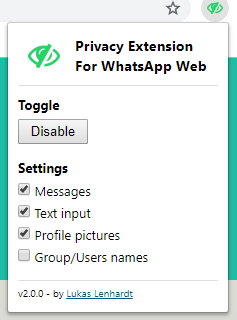
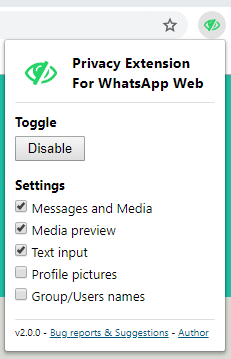
v2.0.0 finished
New design
Functionality to enable/disable what to blur
Added new blurrable elements
Bug fixing
Code cleanup

Changed region(s): [[0.0, 0.0, 0.9091, 1.0], [0.8485, 0.0, 1.0, 1.0]]

diff --git a/chrome/popup/popup.js b/chrome/popup/popup.js
@@ -1,6 +1,7 @@
 // Checkboxes
 let button = document.getElementById('switch');
 let messages = document.getElementById('messages');
+let mediaPreview = document.getElementById('mediaPreview');
 let textInput = document.getElementById('textInput');
 let profilePic = document.getElementById('profilePic');
 let name = document.getElementById('name');
@@ -17,10 +18,11 @@ function refreshScript(){
 }
 
 // Set current state in popup
-chrome.storage.sync.get(['on', 'messages', 'textInput', 'profilePic', 'name'], function(data) {
+chrome.storage.sync.get(['on', 'messages', 'mediaPreview', 'textInput', 'profilePic', 'name'], function(data) {
   chrome.tabs.query({active: true, currentWindow: true}, function(tabs) {
     if(!data.on) button.innerHTML=button_enable;
     messages.checked=data.messages;
+    mediaPreview.checked=data.mediaPreview;
     textInput.checked=data.textInput;
     profilePic.checked=data.profilePic;
     name.checked=data.name;
@@ -44,6 +46,10 @@ button.addEventListener('click', function() {
 // Update settings values
 messages.addEventListener('change', function() {
   chrome.storage.sync.set({messages: this.checked});
+  refreshScript();
+});
+mediaPreview.addEventListener('change', function() {
+  chrome.storage.sync.set({mediaPreview: this.checked});
   refreshScript();
 });
 textInput.addEventListener('change', function() {

diff --git a/firefox/popup/popup.js b/firefox/popup/popup.js
@@ -1,6 +1,7 @@
 // Checkboxes
 let button = document.getElementById('switch');
 let messages = document.getElementById('messages');
+let mediaPreview = document.getElementById('mediaPreview');
 let textInput = document.getElementById('textInput');
 let profilePic = document.getElementById('profilePic');
 let name = document.getElementById('name');
@@ -17,10 +18,11 @@ function refreshScript(){
 }
 
 // Set current state in popup
-chrome.storage.sync.get(['on', 'messages', 'textInput', 'profilePic', 'name'], function(data) {
+chrome.storage.sync.get(['on', 'messages', 'mediaPreview', 'textInput', 'profilePic', 'name'], function(data) {
   chrome.tabs.query({active: true, currentWindow: true}, function(tabs) {
     if(!data.on) button.innerHTML=button_enable;
     messages.checked=data.messages;
+    mediaPreview.checked=data.mediaPreview;
     textInput.checked=data.textInput;
     profilePic.checked=data.profilePic;
     name.checked=data.name;
@@ -44,6 +46,10 @@ button.addEventListener('click', function() {
 // Update settings values
 messages.addEventListener('change', function() {
   chrome.storage.sync.set({messages: this.checked});
+  refreshScript();
+});
+mediaPreview.addEventListener('change', function() {
+  chrome.storage.sync.set({mediaPreview: this.checked});
   refreshScript();
 });
 textInput.addEventListener('change', function() {

diff --git a/chrome/popup/popup.html b/chrome/popup/popup.html
@@ -62,11 +62,15 @@
       <h2>Toggle</h2>
       <button id="switch">Disable</button>
       <h2>Settings</h2>
-      <p><input type="checkbox" id="messages" checked><label for="messages"> Messages</label></p>
+      <p><input type="checkbox" id="messages" checked><label for="messages"> Messages and Media</label></p>
+      <p><input type="checkbox" id="mediaPreview" checked><label for="mediaPreview"> Media preview</label></p>
       <p><input type="checkbox" id="textInput" checked><label for="textInput"> Text input</label></p>
       <p><input type="checkbox" id="profilePic"><label for="profilePic"> Profile pictures</label></p>
       <p><input type="checkbox" id="name"><label for="name"> Group/Users names</label></p>
-      <div id="footer"><hr><p>v2.0.0 - by <a href="https://twitter.com/Lukas_Len" target="_blank">Lukas Lenhardt</a></p></div>
+      <div id="footer">
+        <hr>
+        <p>v2.0.0 - <a href="https://github.com/LukasLen/Privacy-Extension-For-WhatsApp-Web/issues" title="When you encounter issues or have a feature request please follow this link." target="_blank">Bug reports & Suggestions</a> - <a href="https://twitter.com/Lukas_Len" title="by Lukas Lenhardt" target="_blank">Author</a></p>
+      </div>
       <script src="popup.js"></script>
     </body>
   </html>

diff --git a/firefox/popup/popup.html b/firefox/popup/popup.html
@@ -62,11 +62,15 @@
       <h2>Toggle</h2>
       <button id="switch">Disable</button>
       <h2>Settings</h2>
-      <p><input type="checkbox" id="messages" checked><label for="messages"> Messages</label></p>
+      <p><input type="checkbox" id="messages" checked><label for="messages"> Messages and Media</label></p>
+      <p><input type="checkbox" id="mediaPreview" checked><label for="mediaPreview"> Media preview</label></p>
       <p><input type="checkbox" id="textInput" checked><label for="textInput"> Text input</label></p>
       <p><input type="checkbox" id="profilePic"><label for="profilePic"> Profile pictures</label></p>
       <p><input type="checkbox" id="name"><label for="name"> Group/Users names</label></p>
-      <div id="footer"><hr><p>v2.0.0 - by <a href="https://twitter.com/Lukas_Len" target="_blank">Lukas Lenhardt</a></p></div>
+      <div id="footer">
+        <hr>
+        <p>v2.0.0 - <a href="https://github.com/LukasLen/Privacy-Extension-For-WhatsApp-Web/issues" title="When you encounter issues or have a feature request please follow this link." target="_blank">Bug reports & Suggestions</a> - <a href="https://twitter.com/Lukas_Len" title="by Lukas Lenhardt" target="_blank">Author</a></p>
+      </div>
       <script src="popup.js"></script>
     </body>
   </html>

diff --git a/chrome/css/name.css b/chrome/css/name.css
@@ -1,6 +1,13 @@
 ._25Ooe /*List user/group name*/,
 ._2zCDG /*Top user/group name*/,
-._3sgkv /*Group User preview*/
+._3sgkv /*Group user preview*/,
+.iYPsH /*Details username*/,
+._1Xlb2 /*Starred messages username*/,
+._1qUQi /*Starred messages groupname*/,
+._2S1VP /*Details group name*/,
+._2nEKn /*Group description*/,
+._1mf1Y /*About user*/,
+.selectable-text ._3LL06 /*About user phone number*/
 {
   filter: blur(5px) grayscale(1);
   transition-delay: 0s;
@@ -8,7 +15,14 @@
 
 ._25Ooe:hover /*List user/group name*/,
 ._2zCDG:hover /*Top user/group name*/,
-._3sgkv:hover /*Group User preview*/
+._3sgkv:hover /*Group user preview*/,
+.iYPsH:hover /*Details username*/,
+._1Xlb2:hover /*Starred messages username*/,
+._1qUQi:hover /*Starred messages groupname*/,
+._2S1VP:hover /*Details group name*/,
+._2nEKn:hover /*Group description*/,
+._1mf1Y:hover /*About user*/,
+.selectable-text ._3LL06:hover /*About user phone number*/
 {
   filter: blur(0) grayscale(0);
   transition-delay: 0.3s;

diff --git a/firefox/css/name.css b/firefox/css/name.css
@@ -1,6 +1,13 @@
 ._25Ooe /*List user/group name*/,
 ._2zCDG /*Top user/group name*/,
-._3sgkv /*Group User preview*/
+._3sgkv /*Group user preview*/,
+.iYPsH /*Details username*/,
+._1Xlb2 /*Starred messages username*/,
+._1qUQi /*Starred messages groupname*/,
+._2S1VP /*Details group name*/,
+._2nEKn /*Group description*/,
+._1mf1Y /*About user*/,
+.selectable-text ._3LL06 /*About user phone number*/
 {
   filter: blur(5px) grayscale(1);
   transition-delay: 0s;
@@ -8,7 +15,14 @@
 
 ._25Ooe:hover /*List user/group name*/,
 ._2zCDG:hover /*Top user/group name*/,
-._3sgkv:hover /*Group User preview*/
+._3sgkv:hover /*Group user preview*/,
+.iYPsH:hover /*Details username*/,
+._1Xlb2:hover /*Starred messages username*/,
+._1qUQi:hover /*Starred messages groupname*/,
+._2S1VP:hover /*Details group name*/,
+._2nEKn:hover /*Group description*/,
+._1mf1Y:hover /*About user*/,
+.selectable-text ._3LL06:hover /*About user phone number*/
 {
   filter: blur(0) grayscale(0);
   transition-delay: 0.3s;

diff --git a/chrome/load.js b/chrome/load.js
@@ -1,4 +1,4 @@
-chrome.storage.sync.get(['on', 'messages', 'textInput', 'profilePic', 'name'], function(data) {
+chrome.storage.sync.get(['on', 'messages', 'mediaPreview', 'textInput', 'profilePic', 'name'], function(data) {
 
   function removeStyleById(id){
     // check if the stylesheet is there before removing
@@ -23,6 +23,7 @@ chrome.storage.sync.get(['on', 'messages', 'textInput', 'profilePic', 'name'], f
   if(data.on){
     // add stylesheets if selected otherwise remove it
     if(data.messages) addStyle('messages'); else removeStyleById('messages');
+    if(data.mediaPreview) addStyle('mediaPreview'); else removeStyleById('mediaPreview');
     if(data.textInput) addStyle('textInput'); else removeStyleById('textInput');
     if(data.profilePic) addStyle('profilePic'); else removeStyleById('profilePic');
     if(data.name) addStyle('name'); else removeStyleById('name');

diff --git a/firefox/load.js b/firefox/load.js
@@ -1,4 +1,4 @@
-chrome.storage.sync.get(['on', 'messages', 'textInput', 'profilePic', 'name'], function(data) {
+chrome.storage.sync.get(['on', 'messages', 'mediaPreview', 'textInput', 'profilePic', 'name'], function(data) {
 
   function removeStyleById(id){
     // check if the stylesheet is there before removing
@@ -23,6 +23,7 @@ chrome.storage.sync.get(['on', 'messages', 'textInput', 'profilePic', 'name'], f
   if(data.on){
     // add stylesheets if selected otherwise remove it
     if(data.messages) addStyle('messages'); else removeStyleById('messages');
+    if(data.mediaPreview) addStyle('mediaPreview'); else removeStyleById('mediaPreview');
     if(data.textInput) addStyle('textInput'); else removeStyleById('textInput');
     if(data.profilePic) addStyle('profilePic'); else removeStyleById('profilePic');
     if(data.name) addStyle('name'); else removeStyleById('name');

diff --git a/chrome/css/profilePic.css b/chrome/css/profilePic.css
@@ -1,6 +1,7 @@
 .dIyEr /*List profile pic*/,
 ._18tv- /*Top profile pic*/,
-._2umId /*Own profile pic*/
+._2umId /*Own profile pic*/,
+._3ce9t /*Starred messages profile pic*/
 {
   filter: blur(7px) grayscale(1);
   transition-delay: 0s;
@@ -16,6 +17,7 @@
 .dIyEr:hover /*Profile pic*/,
 ._18tv-:hover /*Top profile pic*/,
 ._2umId:hover /*Own profile pic*/,
+._3ce9t:hover /*Starred messages profile pic*/,
 ._1RIe1:hover /*Details profile pic group*/,
 ._2u2Mg:hover /*Details profile pic user*/,
 ._12fSF:hover /*Details own profile pic*/

diff --git a/firefox/css/profilePic.css b/firefox/css/profilePic.css
@@ -1,6 +1,7 @@
 .dIyEr /*List profile pic*/,
 ._18tv- /*Top profile pic*/,
-._2umId /*Own profile pic*/
+._2umId /*Own profile pic*/,
+._3ce9t /*Starred messages profile pic*/
 {
   filter: blur(7px) grayscale(1);
   transition-delay: 0s;
@@ -16,6 +17,7 @@
 .dIyEr:hover /*Profile pic*/,
 ._18tv-:hover /*Top profile pic*/,
 ._2umId:hover /*Own profile pic*/,
+._3ce9t:hover /*Starred messages profile pic*/,
 ._1RIe1:hover /*Details profile pic group*/,
 ._2u2Mg:hover /*Details profile pic user*/,
 ._12fSF:hover /*Details own profile pic*/

diff --git a/chrome/css/messages.css b/chrome/css/messages.css
@@ -1,5 +1,6 @@
 ._itDl /*message preview*/,
-.Tkt2p /*normal message*/
+.Tkt2p /*normal message*/,
+._1Z9m- /*Datails link preview*/
 {
   filter: blur(8px) grayscale(1);
   transition-delay: 0s;
@@ -30,6 +31,7 @@
 
 ._itDl:hover /*message preview*/,
 .Tkt2p:hover /*normal message*/,
+._1Z9m-:hover /*Datails link preview*/,
 .KYpDv:hover /*image*/,
 ._13TsX:hover /*video*/,
 ._1fnMt:hover /*file*/,

diff --git a/firefox/css/messages.css b/firefox/css/messages.css
@@ -1,5 +1,6 @@
 ._itDl /*message preview*/,
-.Tkt2p /*normal message*/
+.Tkt2p /*normal message*/,
+._1Z9m- /*Datails link preview*/
 {
   filter: blur(8px) grayscale(1);
   transition-delay: 0s;
@@ -30,6 +31,7 @@
 
 ._itDl:hover /*message preview*/,
 .Tkt2p:hover /*normal message*/,
+._1Z9m-:hover /*Datails link preview*/,
 .KYpDv:hover /*image*/,
 ._13TsX:hover /*video*/,
 ._1fnMt:hover /*file*/,
